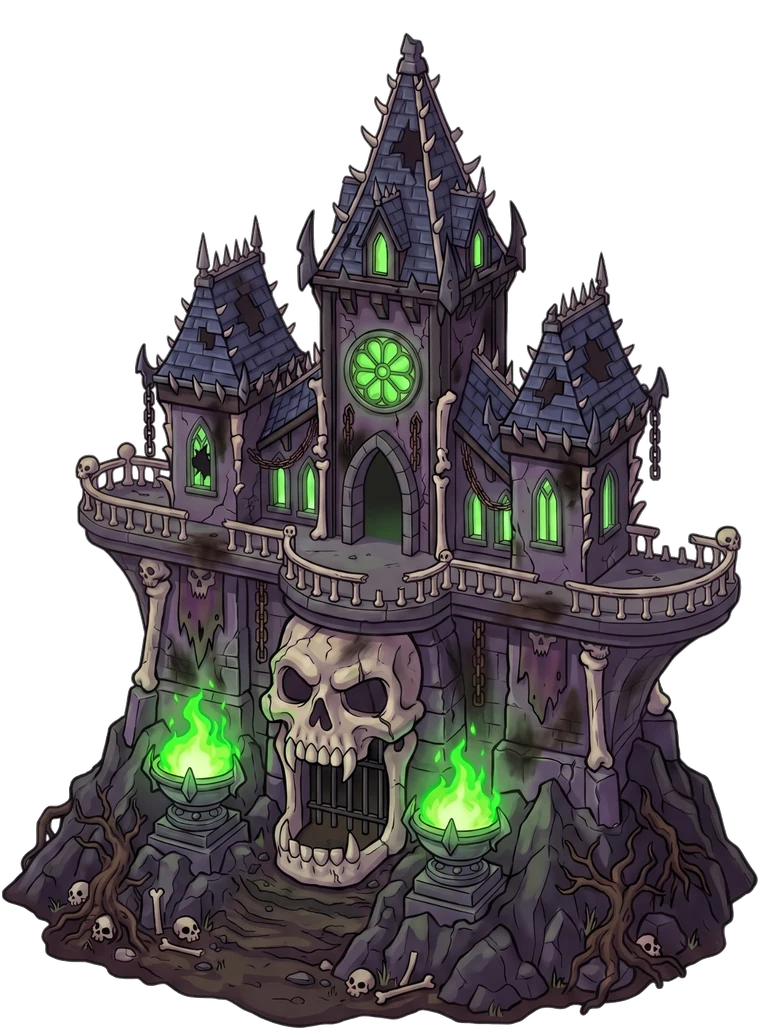
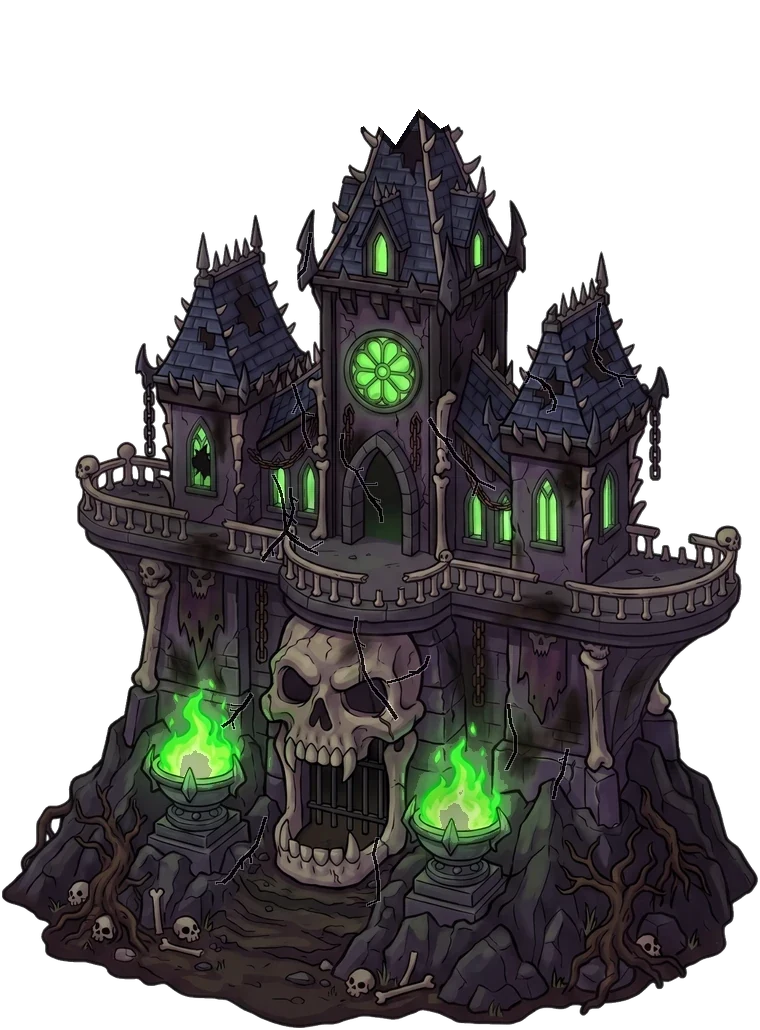
Kale hasar evreleri 3 ve 4 (geçici, hasarlı çizimden türetildi: is, çatlaklar, kararma; 4. evrede kırık kule ucu); Gemini kotası açılınca gerçek çizim gelecek (yayın 469)

diff --git a/sinir-kalesi/index.html b/sinir-kalesi/index.html
@@ -17,7 +17,7 @@
 <canvas id="game" aria-label="Sınır Kalesi oyun alanı"></canvas>
 <script>
   // Sürüm damgası: her yayında artırılır; tarayıcı eski önbellek kopyasını kullanmaz (js ve görseller).
-  window.SURUM = '468';
+  window.SURUM = '469';
   // dil: kayıtlı seçim (yoksa Türkçe); tr/en dışındakiler için çeviri sözlüğü dil.js'ten önce yüklenir
   window.__dilYukle = (function () {
     var l = null; try { l = localStorage.getItem('sinirKalesi.lang'); } catch (e) {}

diff --git a/sinir-kalesi/yayin.html b/sinir-kalesi/yayin.html
@@ -11,7 +11,7 @@
 <canvas id="game" aria-label="Sınır Kalesi oyun alanı"></canvas>
 <script>
   // Sürüm damgası: her yayında artırılır; tarayıcı eski önbellek kopyasını kullanmaz (js ve görseller).
-  window.SURUM = '468';
+  window.SURUM = '469';
   // dil: kayıtlı seçim (yoksa Türkçe); tr/en dışındakiler için çeviri sözlüğü dil.js'ten önce yüklenir
   window.__dilYukle = (function () {
     var l = null; try { l = localStorage.getItem('sinirKalesi.lang'); } catch (e) {}
